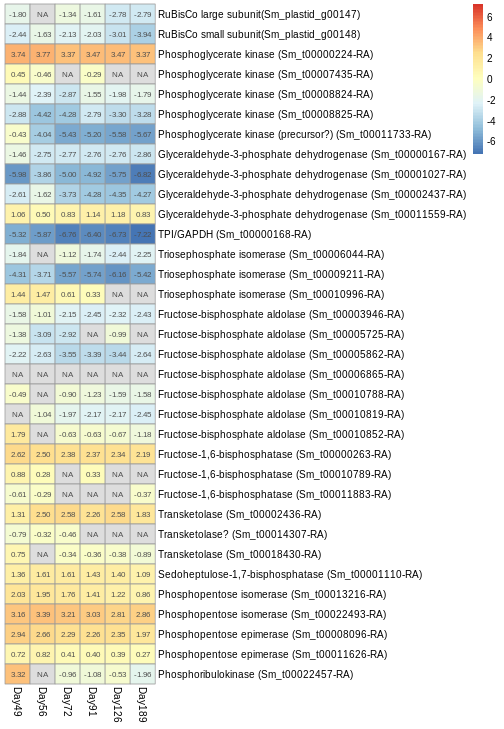
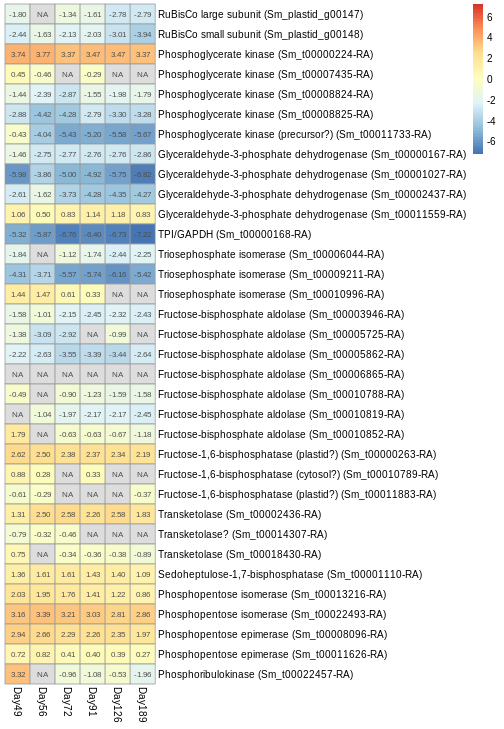
Update results readme and heatmaps re: FBPase

Changed region(s): [[0.5952, 0.6036, 0.8631, 0.6941], [0.506, 0.0, 0.7143, 0.0604]]

diff --git a/10_FinalResults/README.md b/10_FinalResults/README.md
@@ -92,6 +92,13 @@ Seems to be upregulated overall, to varying degrees
 * Note: Sm_t00006651-RA _does_ have the lowest average N content in AA sidechains of the three pyruvate kinases identified, after manual correction of indels in the reference
   * 0.307 vs. 0.345/0.341; check whether this is significant
 
+Fructose-1,6-bisphosphatase is shared with gluconeogenesis AND IS INVOLVED IN HIBERNATION!
+* Cytosolic FBPase (gluconeogenesis) and chloroplastic FBPase (light regulated in Calvin cycle)?
+* Sm_t00000263-RA - (highly upregulated) likely contains a signal peptide, denoting plastid import
+* **Sm_t00010789-RA - (slightly upregulated) no signal peptide, likely cytosolic**
+* Sm_t00011883-RA - (downregulated) contains signal peptide, denoting plastid import
+
+
 Note that glucose-6-phosphatase (final step in gluconeogenesis) has not yet been identified in diatoms
 
 | R05 | GF04 |
@@ -112,6 +119,39 @@ _What are the consequences in terms of products?_
 |-----|------|
 | ![R05_PentosePhosphatePathway](../08_GenesToLookFor/GeneChecks/PentosePhosphatePathway/PentosePhosphatePathway.R05.lfc0.png) | ![GF04_PentosePhosphatePathway](../08_GenesToLookFor/GeneChecks/PentosePhosphatePathway/PentosePhosphatePathway.GF04.lfc0.png) |
 
+### Calvin cycle
+**Relevance**: Related to photosynthesis, so would expect downregulation
+
+Some upregulated genes shared with glycolysis:
+* Phosphoglycerate kinase (Sm_t00000224-RA)
+* Glyceraldehyde 3-phosphate dehydrogenase (Sm_t00011559-RA)
+* Triosephosphate isomerase (Sm_t00010996-RA)
+* Fructose-bisphosphate aldolase (Sm_t00010852-RA)
+
+Some upregulated genes are shared with the pentose phosphate pathway
+* Transketolase
+* Phosphopentose isomerase
+* Phosphopentose epimerase
+
+Fructose-1,6-bisphosphatase is shared with gluconeogenesis AND IS INVOLVED IN HIBERNATION!
+* Cytosolic FBPase (gluconeogenesis) and chloroplastic FBPase (light regulated in Calvin cycle)?
+* **Sm_t00000263-RA - (highly upregulated) likely contains a signal peptide, denoting plastid import**
+* Sm_t00010789-RA - (slightly upregulated) no signal peptide, likely cytosolic
+* **Sm_t00011883-RA - (downregulated) contains signal peptide, denoting plastid import**
+
+Phosphoribulokinase (Sm_t00022457-RA) is only upregulated at 49d, but quite significantly so; it then moves into downregulation
+* This gene is supposed to be unique to the Calvin cycle, and the sequence appears to be accurate (if anything, the gene model should be extended a little)
+* Why would such a gene be upregulated in darkness?
+  * Also requires ATP so would be expending energy this way...
+
+Sedoheptulose-1,7-bisphosphatase (Sm_t00001110-RA) is also upregulated and yet unique to the Calvin cycle
+
+_Note: Some of the a-ketoglutarate dehydrogenase E3 predictions may be dihydrolipoyl dehydrogenase
+(i.e. pyruvate dehydrogenase complex E3)_
+
+| R05 | GF04 |
+|-----|------|
+| ![R05_CalvinCycle](../08_GenesToLookFor/GeneChecks/CalvinCycle/CalvinCycle.R05.lfc0.png) | ![GF04_CalvinCycle](../08_GenesToLookFor/GeneChecks/CalvinCycle/CalvinCycle.GF04.lfc0.png) |
 
 
 
@@ -206,35 +246,6 @@ _Any further conclusions to be drawn?_
 |-----|------|
 | ![R05_Nitrate](../08_GenesToLookFor/GeneChecks/NitrateMetabolism/NitrateMetabolism.R05.lfc0.png) | ![GF04_Nitrate](../08_GenesToLookFor/GeneChecks/NitrateMetabolism/NitrateMetabolism.GF04.lfc0.png) |
 
-### Calvin cycle
-**Relevance**: Related to photosynthesis, so would expect downregulation
-
-Some upregulated genes shared with glycolysis:
-* Phosphoglycerate kinase (Sm_t00000224-RA)
-* Glyceraldehyde 3-phosphate dehydrogenase (Sm_t00011559-RA)
-* Triosephosphate isomerase (Sm_t00010996-RA)
-* Fructose-bisphosphate aldolase (Sm_t00010852-RA)
-
-Some upregulated genes are shared with the pentose phosphate pathway
-* Transketolase
-* Phosphopentose isomerase
-* Phosphopentose epimerase
-
-Fructose-1,6-bisphosphatase is shared with gluconeogenesis
-
-Phosphoribulokinase (Sm_t00022457-RA) is only upregulated at 49d, but quite significantly so; it then moves into downregulation
-* This gene is supposed to be unique to the Calvin cycle, and the sequence appears to be accurate (if anything, the gene model should be extended a little)
-* Why would such a gene be upregulated in darkness?
-  * Also requires ATP so would be expending energy this way...
-
-Sedoheptulose-1,7-bisphosphatase (Sm_t00001110-RA) is also upregulated and yet unique to the Calvin cycle
-
-_Note: Some of the a-ketoglutarate dehydrogenase E3 predictions may be dihydrolipoyl dehydrogenase
-(i.e. pyruvate dehydrogenase complex E3)_
-
-| R05 | GF04 |
-|-----|------|
-| ![R05_CalvinCycle](../08_GenesToLookFor/GeneChecks/CalvinCycle/CalvinCycle.R05.lfc0.png) | ![GF04_CalvinCycle](../08_GenesToLookFor/GeneChecks/CalvinCycle/CalvinCycle.GF04.lfc0.png) |
 
 
 ### Transporters
